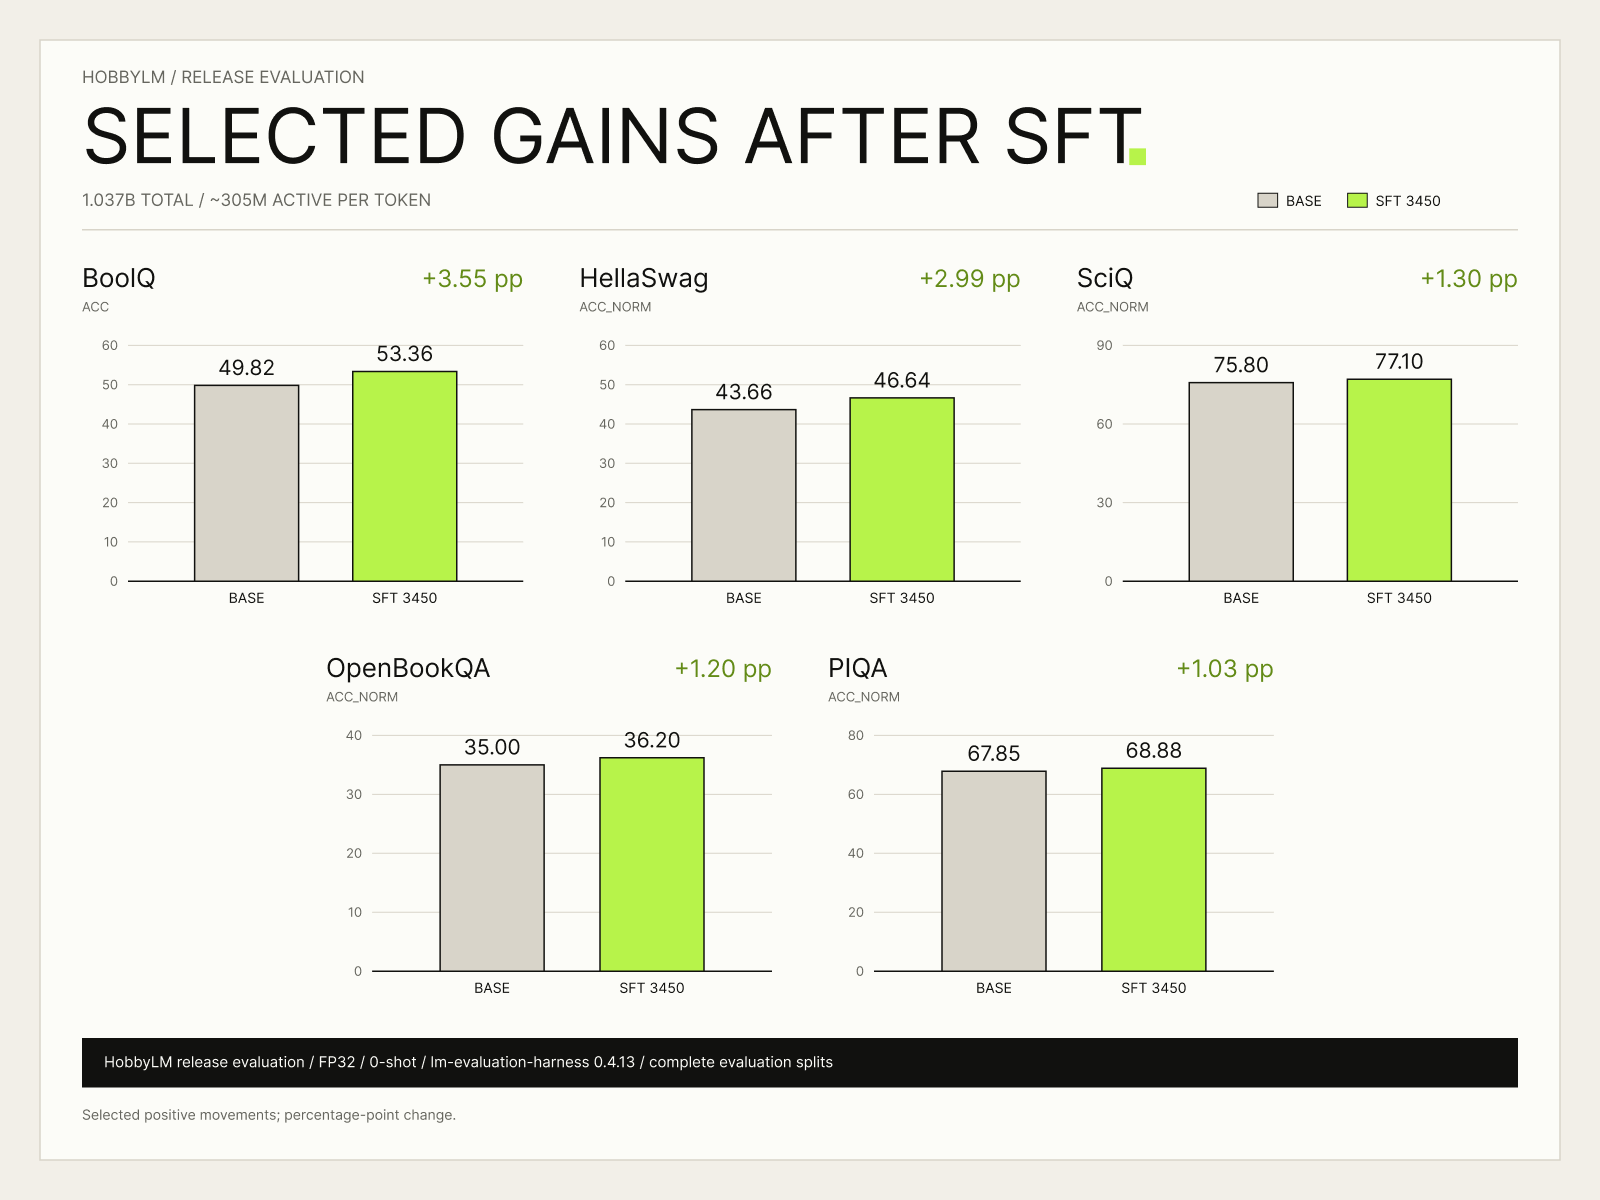
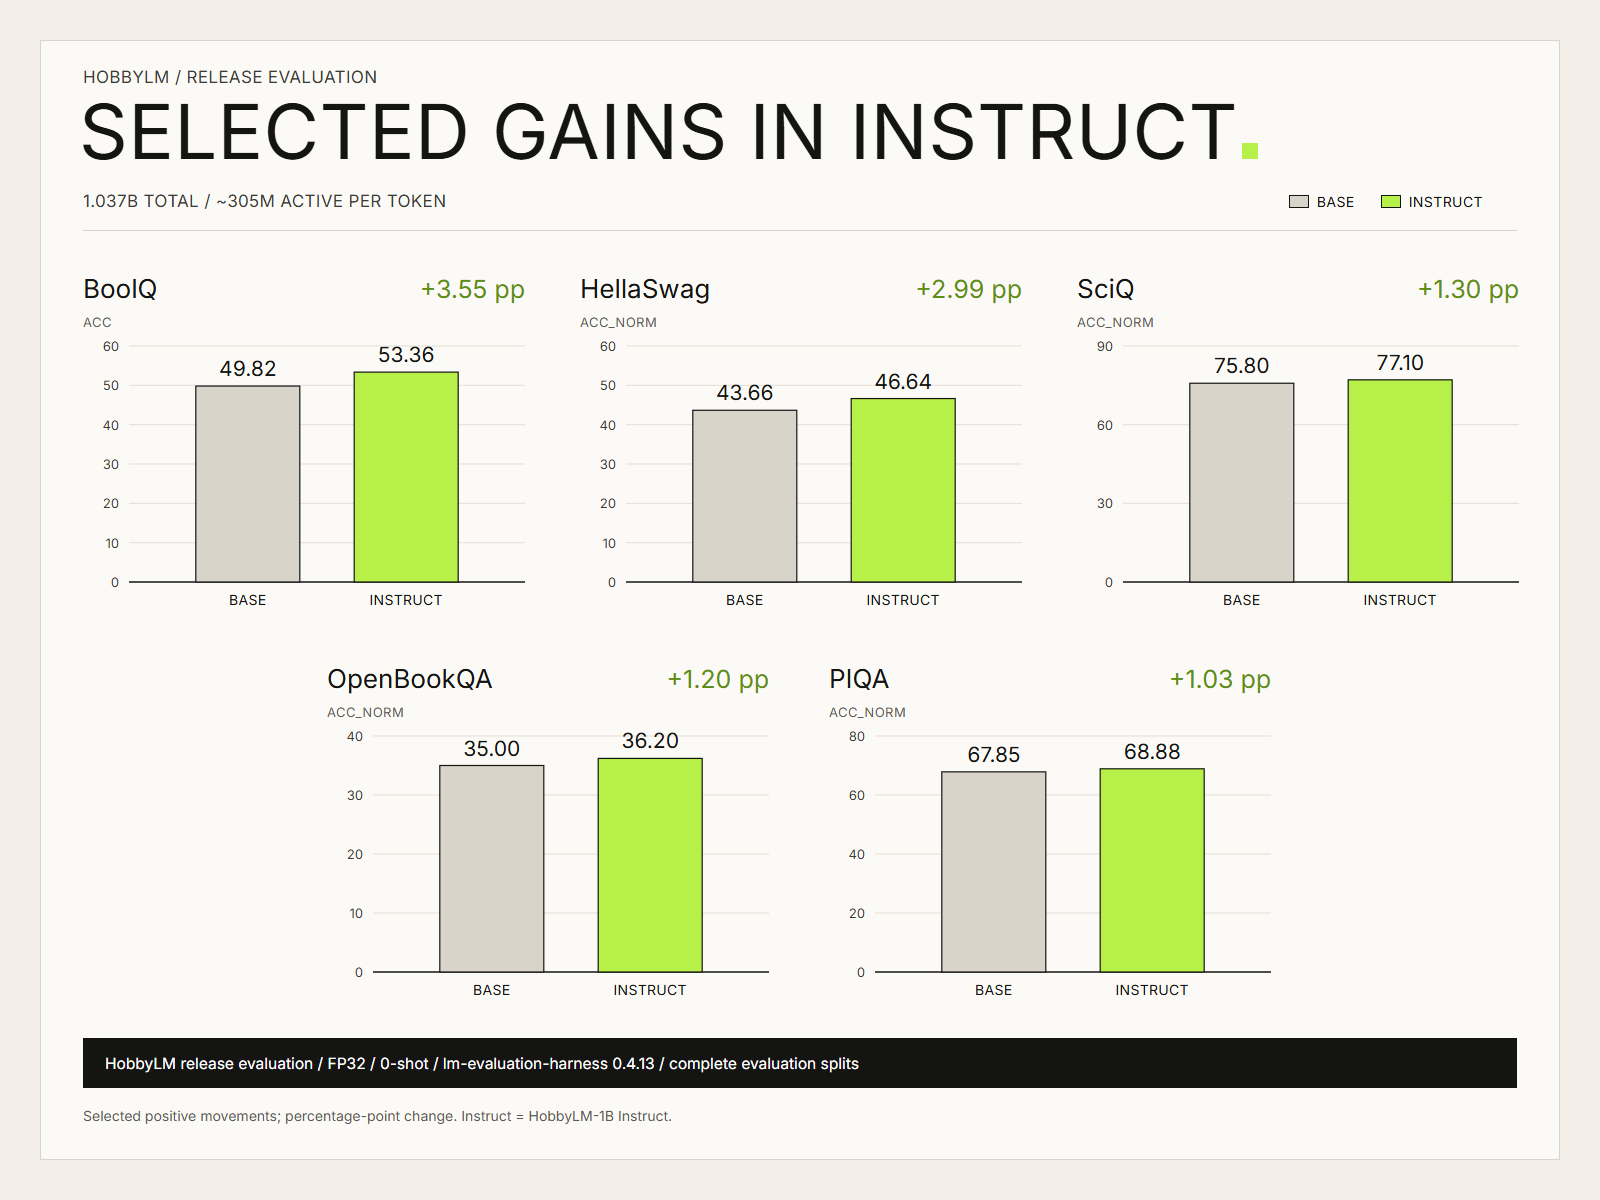
Docs: call the instruction-tuned model "Instruct" instead of "SFT step 3450"
Wording, evaluation labels and the gains chart (redrawn with identical
numbers). File names, Hugging Face subfolder names and runtime files are
unchanged.

diff --git a/examples/chat_sft.py b/examples/chat_sft.py
@@ -1,4 +1,4 @@
-"""Instruction-tuned model (SFT step 3450): one chat turn with the released chat template."""
+"""Instruct model: one chat turn with the released chat template."""
 import torch
 
 from _load import load, parse_args

diff --git a/README.md b/README.md
@@ -6,14 +6,14 @@ A small **sparse mixture-of-experts** language model, trained from scratch on **
 
 Two models are released:
 - the **base** model (text continuation);
-- an **instruction-tuned** model, **Broad-Instruct SFT step 3450**, which follows simple instructions, rewrites and extracts text, and makes single function calls in a Python-list format.
+- an **instruction-tuned** model, **HobbyLM-1B Instruct**, which follows simple instructions, rewrites and extracts text, and makes single function calls in a Python-list format.
 
 | | |
 |---|---|
 | **Try it in the browser** | [HobbyLM-1B chat (Hugging Face Space)](https://huggingface.co/spaces/harims95/hobbylm-1b-chat) |
 | **Run it on Windows, easiest** | [Double-click chat bundle](https://github.com/fuellabs-ai/hobbylm-1b/releases/tag/v1.0.0): download `HobbyLM-1B-Chat-Windows-x64-1.0.0.zip`, extract, double-click **`Start HobbyLM.bat`**. The chat opens in your browser and runs offline on your computer. |
 | Base model (Transformers) | [harims95/hobbylm-1B](https://huggingface.co/harims95/hobbylm-1B): final annealed base, model card, release evaluation |
-| Instruct model (Transformers) | [harims95/hobbylm-1B-instruct](https://huggingface.co/harims95/hobbylm-1B-instruct): Broad-Instruct SFT step 3450 at the repository root |
+| Instruct model (Transformers) | [harims95/hobbylm-1B-instruct](https://huggingface.co/harims95/hobbylm-1B-instruct): HobbyLM-1B Instruct at the repository root |
 | GGUF files | [harims95/hobbylm-1B-gguf](https://huggingface.co/harims95/hobbylm-1B-gguf): instruct Q4_K_M, Q8_0, F32; base F32. Converter: [`gguf/`](gguf/) (reproduces the published F32 file bit for bit) |
 | Checkpoints (Transformers) | [harims95/hobbylm-1b-checkpoints](https://huggingface.co/harims95/hobbylm-1b-checkpoints): final annealed base, 4K context extension and instruct, one subfolder each |
 | Patched runtimes (Windows, CPU) | [Release page](https://github.com/fuellabs-ai/hobbylm-1b/releases/tag/v1.0.0): patched llama.cpp, patched Ollama, and their source archive. Patches, launchers and build steps: [`runtimes/`](runtimes/) |
@@ -24,7 +24,7 @@ Two models are released:
 | Path | What it is |
 |---|---|
 | [`hobbylm_hf/`](hobbylm_hf/) | Model architecture and configuration (`modeling_hobbylm.py`, `configuration_hobbylm.py`). Byte-identical to the files that `trust_remote_code=True` loads from the Hugging Face repositories. |
-| [`examples/`](examples/) | Runnable inference examples: base-model completion, SFT chat with the chat template, and a 4,096-token input with the SFT model. |
+| [`examples/`](examples/) | Runnable inference examples: base-model completion, Instruct chat with the chat template, and a 4,096-token input with the Instruct model. |
 | [`gguf/`](gguf/) | GGUF converter (reproduces the published F32 file bit for bit) and its instructions. |
 | [`runtimes/`](runtimes/) | Patches, launchers and build instructions for the patched llama.cpp and Ollama runtimes in the release. |
 | [`ARCHITECTURE.md`](ARCHITECTURE.md) | Architecture details read from the released configuration. |
@@ -40,7 +40,7 @@ cd hobbylm-1b
 pip install -r requirements.txt
 python examples/generate_base.py          # base model, text completion
 python examples/chat_sft.py               # instruction-tuned model, chat template
-python examples/long_input_4k.py          # SFT model with a ~3,900-token input
+python examples/long_input_4k.py          # Instruct model with a ~3,900-token input
 ```
 
 The examples download the released weights from Hugging Face (about 4.2 GB per model) and pin exact revisions. They load the model code that ships with the weights; [`hobbylm_hf/`](hobbylm_hf/) holds the same code for reading and for offline use (`--local-code`).
@@ -65,7 +65,7 @@ HobbyLM: We are currently reviewing the proposal document that was submitted to 
 
 The release evaluation covers 11 benchmarks, both models, all 0-shot: lm-evaluation-harness 0.4.13, fp32, all examples of each split.
 
-| Benchmark | Metric | Base | SFT step 3450 |
+| Benchmark | Metric | Base | Instruct |
 |---|---|---:|---:|
 | HellaSwag | acc_norm | 43.66 | 46.64 |
 | ARC-Easy | acc_norm | 54.76 | 54.12 |
@@ -83,18 +83,18 @@ The release evaluation covers 11 benchmarks, both models, all 0-shot: lm-evaluat
 - CommonsenseQA and MMLU are near their random-guess baselines (20% and 25%).
 - No average is given, because the metrics differ.
 
-The chart below is a selected view of positive movements from base to SFT step 3450, not a composite score or a claim that every benchmark improved; the full results, including regressions, are in the table above.
+The chart below is a selected view of positive movements from Base to Instruct, not a composite score or a claim that every benchmark improved; the full results, including regressions, are in the table above.
 
-![Selected gains from HobbyLM Base to the instruction-tuned step-3450 checkpoint on BoolQ, HellaSwag, SciQ, OpenBookQA and PIQA.](assets/hobbylm-sft-selected-gains.png)
+![Selected gains from HobbyLM Base to HobbyLM-1B Instruct on BoolQ, HellaSwag, SciQ, OpenBookQA and PIQA.](assets/hobbylm-sft-selected-gains.png)
 
-**IFEval (SFT step 3450 only; the base model was not evaluated on IFEval).** All 541 prompts; official lm-eval 0.4.13 scoring; the model's chat template; greedy; 2,048-token response budget.
+**IFEval (Instruct only; the base model was not evaluated on IFEval).** All 541 prompts; official lm-eval 0.4.13 scoring; the model's chat template; greedy; 2,048-token response budget.
 
 | Prompt-level strict | Instruction-level strict | Prompt-level loose | Instruction-level loose |
 |---:|---:|---:|---:|
 | 22.92 | 37.77 | 24.95 | 40.53 |
 
 - **Cap hits:** 135 of 541 responses (25.0%) reached the 2,048-token limit; most were flagged as repetitive by a simple heuristic.
-- **Training overlap:** 2 prompts overlap the final SFT training mix. The scores above include them.
+- **Training overlap:** 2 prompts overlap the final instruction-tuning mix. The scores above include them.
 
 ### Published scores of similar small MoE base models (not a matched evaluation)
 
@@ -155,7 +155,7 @@ The rebuilt runtime files are **not code-signed**; Windows may show a warning fo
 - **Router:** sigmoid router with aux-loss-free bias balancing.
 - **Attention:** GQA (16/8 heads, head dim 128) with QK-RMSNorm; plain RoPE (theta 10000).
 - **Embeddings:** tied input and output embeddings; GPT-2 tokenizer.
-- **Context:** base 1,024 tokens; SFT 4,096 configured.
+- **Context:** base 1,024 tokens; Instruct 4,096 configured.
 
 ## Pretraining (base model)
 
@@ -199,7 +199,7 @@ The training, data-preparation and evaluation code is not part of this repositor
 ## Licence
 
 **Apache License 2.0** (`LICENSE`). It covers:
-- the HobbyLM-1B base and SFT step 3450 weights, including their GGUF conversions;
+- the HobbyLM-1B base and Instruct weights, including their GGUF conversions;
 - the HobbyLM architecture and original model code by Harish ([harishsg993010/HobbyLM](https://github.com/harishsg993010/HobbyLM)), released under Apache-2.0 with its author's permission, and derivatives of that code in this repository.
 
 **Not covered:**

diff --git a/ARCHITECTURE.md b/ARCHITECTURE.md
@@ -2,7 +2,7 @@
 
 Values are read from the released `config.json` files. The code is in [`hobbylm_hf/modeling_hobbylm.py`](hobbylm_hf/modeling_hobbylm.py).
 
-| | Base | SFT step 3450 |
+| | Base | Instruct |
 |---|---|---|
 | Parameters | 1,037,121,536 total; 304,953,344 active per token | same |
 | Context (`max_position_embeddings`) | 1,024 | 4,096 |
@@ -35,4 +35,4 @@ Keep the model in float32. With top-8-of-64 routing, the router-score gap betwee
 ## Tokenizer and chat template
 
 - GPT-2 byte-level BPE; no BOS/EOS is added automatically; `<|endoftext|>` (50256) ends generation.
-- The SFT model's chat template is in its `tokenizer_config.json` on Hugging Face; [`examples/chat_sft.py`](examples/chat_sft.py) applies it. The base model has no chat template.
+- The Instruct model's chat template is in its `tokenizer_config.json` on Hugging Face; [`examples/chat_sft.py`](examples/chat_sft.py) applies it. The base model has no chat template.
